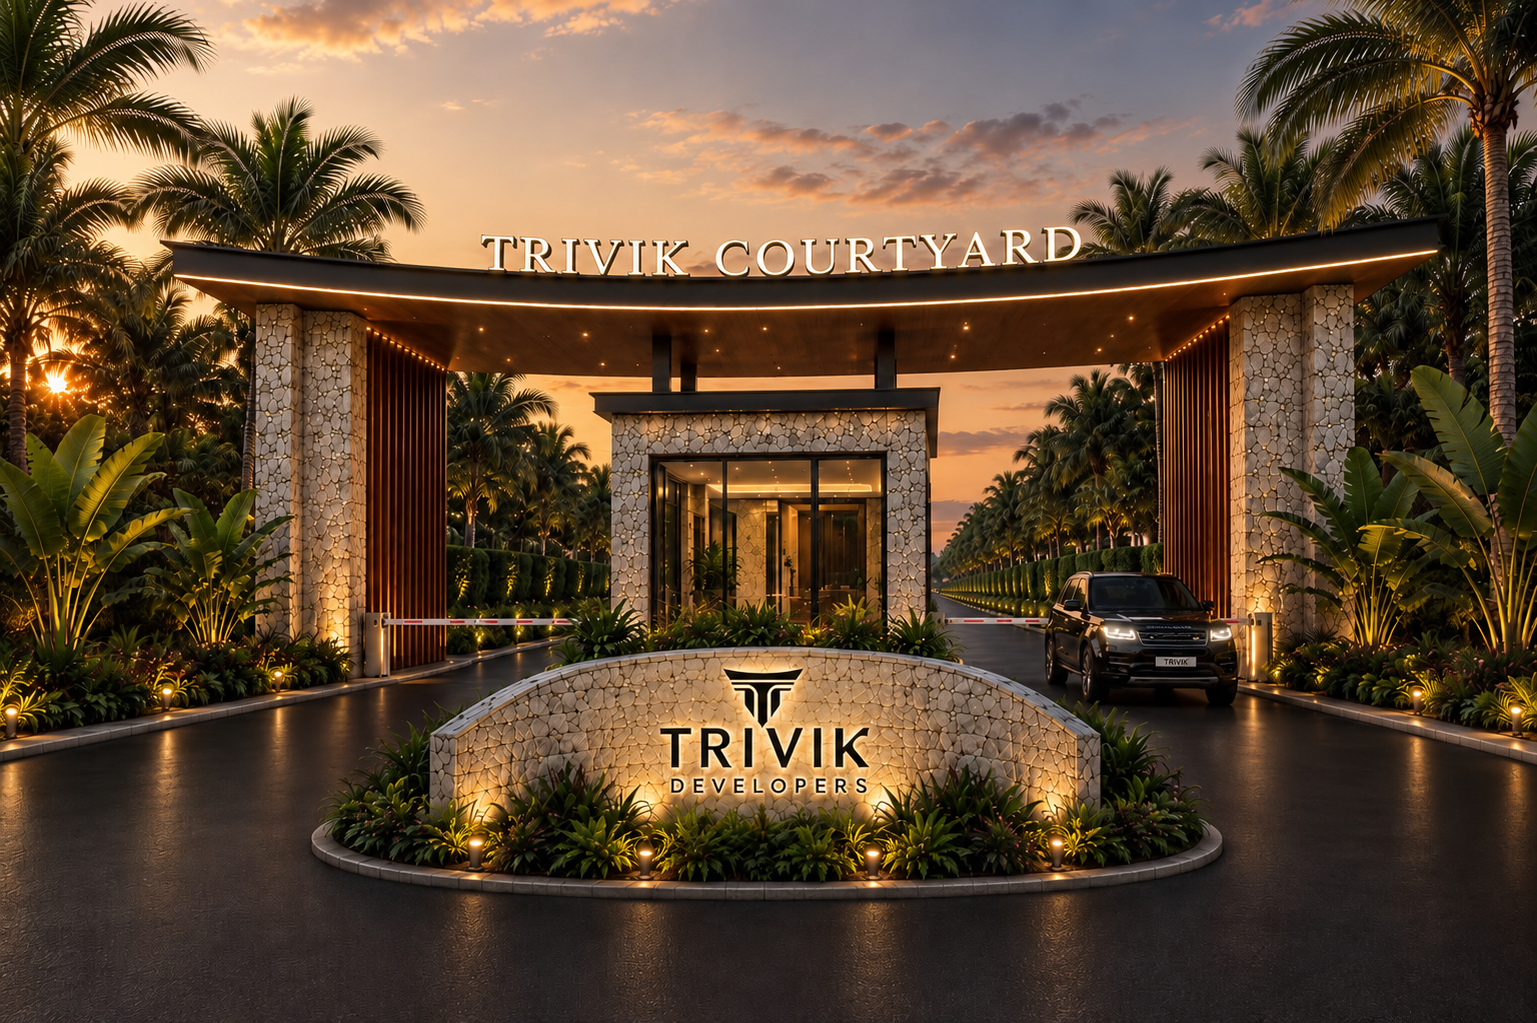
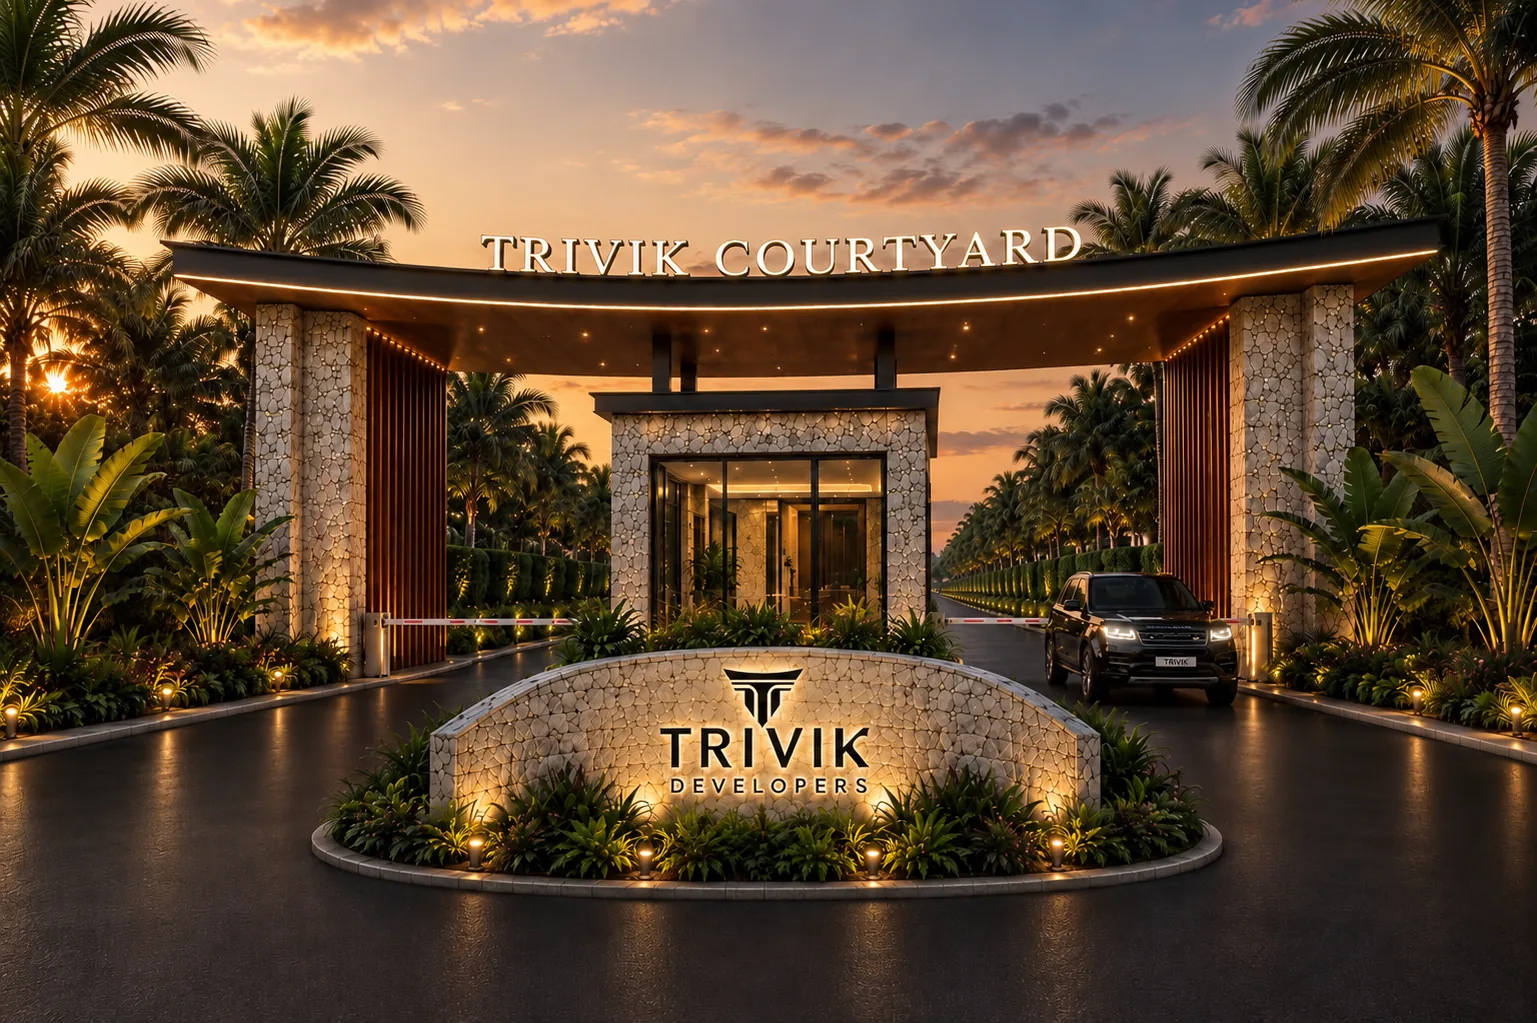
Increase description type by 2px; optimise hero renders
Type
- every section's description/body copy up 2px: global paragraphs 16->18,
  location/clubhouse/dfl notes 15->17, footer tag 13.5->15.5, disclaimers
  and captions 12/13 -> 14/15
- the specifications description was pinned at 14px by a legacy
  `.specifications-section p` rule later in the file; scoped the spec2
  rule so it wins

Images
- new portrait hero render (supplied) committed
- both hero renders re-encoded to the documented webp q80 convention:
  2697KB -> 281KB and 2373KB -> 206KB, no visible change. They were 3.5x
  larger than any other asset and the portrait one is served to phones.

diff --git a/client/src/styles/global.css b/client/src/styles/global.css
@@ -50,8 +50,8 @@ a {
 }
 
 p {
-  font-size: 16px;
-  line-height: 24px;
+  font-size: 18px;
+  line-height: 28px;
   margin-bottom: 20px;
 }
 
@@ -104,7 +104,7 @@ h3 {
   }
 
   p {
-    font-size: 14px;
+    font-size: 16px;
   }
 
   h3 {
@@ -855,7 +855,7 @@ h3 {
 }
 .loc2-head-copy p {
   font-family: var(--font);
-  font-size: 15px;
+  font-size: 17px;
   line-height: 1.65;
   color: #5f5c53;
   max-width: 460px;
@@ -1054,7 +1054,7 @@ h3 {
 }
 .loc2-item-name {
   flex: 1;
-  font-size: 14.5px;
+  font-size: 16.5px;
   font-weight: 500;
   color: #37352f;
   line-height: 1.25;
@@ -1275,7 +1275,7 @@ h3 {
 
 .loc2-disclaimer {
   margin-top: 18px;
-  font-size: 12px;
+  font-size: 14px;
   color: #9a968b;
 }
 
@@ -1446,7 +1446,7 @@ h3 {
   font-size: clamp(28px, 3.4vw, 44px);
   font-weight: 600; color: #2b2a26; line-height: 1.1; margin-bottom: 8px;
 }
-.dfl-head p { font-size: 16px; color: #6b675d; margin: 0; }
+.dfl-head p { font-size: 18px; color: #6b675d; margin: 0; }
 
 /* Image card takes the lion's share of the row; the data card is narrower and
    centres against it, so its height is driven by its own content rather than
@@ -1540,7 +1540,7 @@ h3 {
   margin-bottom: 12px;
 }
 .dfl-note {
-  font-size: 15px;
+  font-size: 17px;
   line-height: 1.6;
   color: #6b675d;
   max-width: 34ch;
@@ -2049,7 +2049,7 @@ h3 {
   bottom: 20px;
   z-index: 3;
   color: #fff;
-  font-size: 15px;
+  font-size: 17px;
   font-weight: 600;
   letter-spacing: .3px;
   text-shadow: 0 2px 12px rgba(0, 0, 0, 0.6);
@@ -2130,7 +2130,7 @@ h3 {
     border-radius: 14px;
   }
   .runway-arrow { display: none; }            /* swipe or tap a thumb instead */
-  .runway-caption { left: 14px; bottom: 32px; font-size: 13px; }
+  .runway-caption { left: 14px; bottom: 32px; font-size: 15px; }
   .runway-stage::after { height: 42%; }
   .runway-dots { bottom: 12px; gap: 7px; }
   .runway-dot { width: 7px; height: 7px; }
@@ -2139,7 +2139,7 @@ h3 {
 /* very small phones */
 @media (max-width: 380px) {
   .runway-thumb { width: 84px; }
-  .runway-caption { font-size: 12px; }
+  .runway-caption { font-size: 14px; }
 }
 
 @media (prefers-reduced-motion: reduce) {
@@ -2172,7 +2172,7 @@ h3 {
 }
 .mplan-head p {
   font-family: var(--font);
-  font-size: 16px;
+  font-size: 18px;
   line-height: 1.6;
   color: #6b675d;
   margin: 0;
@@ -2260,7 +2260,7 @@ h3 {
 .mplan-rv { font-weight: 600; font-size: 14px; color: #232323; }
 .mplan-total { border-bottom: none; border-top: 2px solid #D9D4C4; margin-top: 2px; }
 .mplan-total .mplan-rl, .mplan-total .mplan-rv { font-weight: 700; }
-.mplan-note { font-size: 12px; color: #8a8178; margin-top: 14px; }
+.mplan-note { font-size: 14px; color: #8a8178; margin-top: 14px; }
 
 /* graphic (two crossfading layers) */
 .mplan-graphic {
@@ -2323,7 +2323,7 @@ h3 {
 }
 .club2-intro p {
   font-family: var(--font);
-  font-size: 15px; line-height: 1.7; color: #6b675d; margin-bottom: 12px;
+  font-size: 17px; line-height: 1.7; color: #6b675d; margin-bottom: 12px;
 }
 .club2-stats {
   display: flex; gap: 26px; margin-top: 22px;
@@ -2385,7 +2385,7 @@ h3 {
 }
 .amen-head p {
   font-family: var(--font);
-  font-size: 16px;
+  font-size: 18px;
   line-height: 1.6;
   color: #3A3E31;
 }
@@ -2561,7 +2561,7 @@ h3 {
   .amen-list.cols-3, .amen-list.cols-2 { columns: 1; }
   .amen-mosaic-stack { height: 300px; }
   .amen-mosaic { gap: 7px; }
-  .amen-head p { font-size: 15px; }
+  .amen-head p { font-size: 17px; }
 }
 
 .amenities-section .section-header {
@@ -2918,7 +2918,7 @@ h3 {
   font-weight: 600; color: #2b2a26; line-height: 1.2; margin-bottom: 5px;
 }
 .verdant-card figcaption span {
-  font-size: 13px; color: #8a867b; letter-spacing: .2px;
+  font-size: 15px; color: #8a867b; letter-spacing: .2px;
 }
 
 @media (max-width: 900px) {
@@ -2950,9 +2950,9 @@ h3 {
 .spec2 .container { display: block; }
 .spec2-head { max-width: 780px; margin-bottom: 1.6em; }
 .spec2-head h3 { margin-bottom: 0.3em; }
-.spec2-head p {
+.spec2 .spec2-head p {
   font-family: var(--font);
-  font-size: 16px;
+  font-size: 18px;
   line-height: 1.6;
   color: #3A3E31;
   margin: 0;
@@ -3154,7 +3154,7 @@ h3 {
 }
 
 .specifications-section p {
-  font-size: 14px;
+  font-size: 16px;
   font-weight: 400;
   margin-bottom: .5em;
 }
@@ -3343,7 +3343,7 @@ h3 {
 .footer2-logo { width: 128px; display: block; margin-bottom: 9px; }
 .footer2-tag {
   font-family: var(--font);
-  font-size: 13.5px;
+  font-size: 15.5px;
   line-height: 1.5;
   color: #A7AC98;
   max-width: 330px;
@@ -4189,7 +4189,7 @@ p { font-family: var(--font); }
 .video-header h3 { margin-bottom: 0.4em; }
 .video-header p {
   font-family: var(--font);
-  font-size: 16px;
+  font-size: 18px;
   line-height: 1.6;
   color: #3A3E31;
 }
@@ -4262,7 +4262,7 @@ p { font-family: var(--font); }
 
 @media (max-width: 768px) {
   .video-section { padding: 3.2em 0 3.6em; }
-  .video-header p { font-size: 15px; }
+  .video-header p { font-size: 17px; }
   .video-frame { border-radius: 14px; }
   .video-play { width: 64px; height: 64px; }
 }
